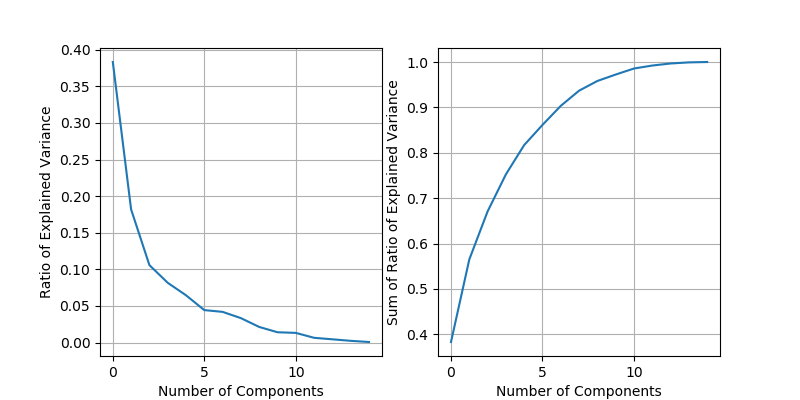
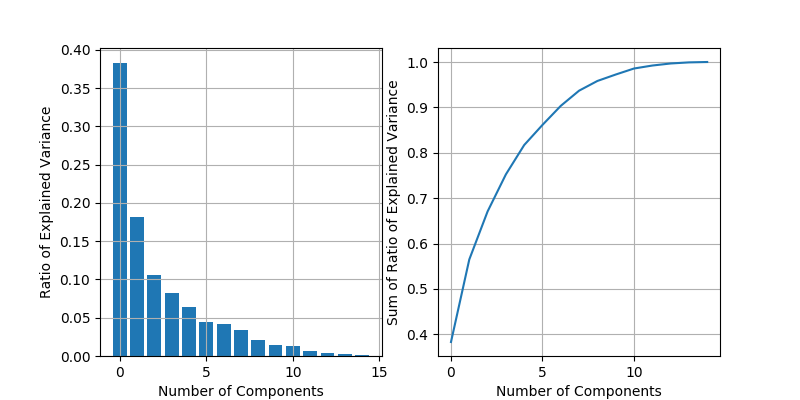
Time: 2019-09-19 22:23:42

diff --git a/proprecessing.py b/proprecessing.py
@@ -6,7 +6,7 @@
 @Github: https://github.com/isLouisHsu
 @E-mail: is.louishsu@foxmail.com
 @Date: 2019-09-19 11:01:14
-@LastEditTime: 2019-09-19 20:05:39
+@LastEditTime: 2019-09-19 21:25:07
 @Update: 
 '''
 import os
@@ -18,7 +18,7 @@ import pywt
 
 from dwt_signal_decomposition import plot_signal_decomp, dwtDecompose
 
-SPEEDTHRESH = 2.
+IDLETHRESH = 2.
 
 def timestamp2unix(timestamp):
     """
@@ -58,7 +58,7 @@ def getSpeedSequenceFromLongitudeAndLatitude(longitude, latitude):
     speedSeq  = np.r_[0, speedSeq]
     return speedSeq
 
-def cutSpeedSequences(timestamp, speedSeq, speedThresh=SPEEDTHRESH):
+def cutSpeedSequences(timestamp, speedSeq, speedThresh=IDLETHRESH):
     """
     Params:
         timestamp: {ndarray(N)}
@@ -89,17 +89,15 @@ def cutSpeedSequences(timestamp, speedSeq, speedThresh=SPEEDTHRESH):
     # speedSeq[speedSeq < speedThresh] = 0.                                           # 小于阈值作怠速处理
     speedSequences = list(map(lambda x: speedSeq[x[0]: x[1]], cutIndex))
 
-    return speedSequences, cutIndex
+    return speedSequences
 
-def calFeaturesOfSequence(seq, speedThresh=SPEEDTHRESH, maxIdle=180):
+def calFeaturesOfSequence(seq, speedThresh=IDLETHRESH, maxIdle=180, dwtTime=1):
     """
     Params:
         seq: {ndarray(n_length)}
     Notes:
     -   
     """
-    # plt.figure(); plt.plot(seq); plt.show()
-    
     isIdle = (seq < speedThresh).astype(np.int)     # 是否怠速
     index = np.r_[1, isIdle[1:] - isIdle[:-1]]      # 负跳变(-1)：从怠速起步
     idxStart = np.where(index == -1)[0][0]          # 起步时间
@@ -108,12 +106,12 @@ def calFeaturesOfSequence(seq, speedThresh=SPEEDTHRESH, maxIdle=180):
         seq = seq[maxIdle: ]             
         idxStart -= maxIdle
 
-    accelerate = np.r_[0, seq[1:] - seq[:-1]]       # 加速度(m/s)
-    accelerate = accelerate[idxStart:]
-
-    seq_   = seq / 3.6                              # m/s
+    seq    = seq / 3.6                              # m/s
     n_sec  = seq.shape[0]
     n_dist = seq.sum()
+
+    accelerate = np.r_[0, seq[1:] - seq[:-1]]       # 加速度(m/s)
+    accelerate = accelerate[idxStart:]
 
     feature = []
     feature += [n_sec]                              # 时长(s)
@@ -147,12 +145,19 @@ if __name__ == "__main__":
     # filename = 'data/temp.xlsx'
 
     for i in range(1, 4):
+        
         filename = 'data/file%d.xlsx' % i
         data = readData(filename)
         print(i, data.shape)
+        
         timestamp, gpsSpeed = data[:, 0], data[:, 1]
-        gpsSpeedSeq, cutIndex = cutSpeedSequences(timestamp, gpsSpeed)
-        np.save('output/gpsSpeedCutIndex_file%d.npy' % i, cutIndex)
+        # gpsSpeed = dwtDecompose(gpsSpeed, 2)
+
+        gpsSpeedSeq = cutSpeedSequences(timestamp, gpsSpeed)
+        np.save('output/gpsSpeedSequences_file%d.npy' % i, gpsSpeedSeq)
+        print("Number of sequences: %d, Mean of sequences' length: %f" 
+                % (len(gpsSpeedSeq), gpsSpeed.shape[0] / len(gpsSpeedSeq)))
+
         gpsSpeedFeat = np.stack(list(map(calFeaturesOfSequence, gpsSpeedSeq)), 0)
         np.save('output/gpsSpeedFeat_file%d.npy' % i, gpsSpeedFeat)
     

diff --git a/clustering.py b/clustering.py
@@ -6,7 +6,7 @@
 @Github: https://github.com/isLouisHsu
 @E-mail: is.louishsu@foxmail.com
 @Date: 2019-09-19 17:58:02
-@LastEditTime: 2019-09-19 20:02:09
+@LastEditTime: 2019-09-19 21:21:44
 @Update: 
 '''
 import os
@@ -18,6 +18,7 @@ from sklearn.preprocessing import StandardScaler
 from sklearn.decomposition import PCA
 from sklearn.cluster import KMeans
 from sklearn.model_selection import GridSearchCV
+from sklearn.externals import joblib
 
 speedFeats = []
 for i in range(1, 4):
@@ -25,6 +26,7 @@ for i in range(1, 4):
     speedFeats += [speedFeat]
 speedFeats = np.concatenate(speedFeats, axis=0)
 n_samples, n_features = speedFeats.shape
+print("Shape of samples: ", speedFeats.shape)
 
 # ------------------------------------------------------------------
 steps = [('scaler', StandardScaler()), ('pca', PCA(n_components=n_features))]
@@ -34,7 +36,7 @@ pipline.fit(speedFeats)
 plt.figure(figsize=(8, 4))
 plt.title('Explained Variance(Eigen Values) Ratio of PCA')
 plt.subplot(121)
-plt.plot(pipline.named_steps.pca.explained_variance_ratio_)
+plt.bar(list(range(n_features)), pipline.named_steps.pca.explained_variance_ratio_)
 plt.xlabel("Number of Components")
 plt.ylabel("Ratio of Explained Variance")
 plt.grid()
@@ -75,16 +77,31 @@ steps = [
 pipline = Pipeline(steps)
 
 scores = []
-for n_clusters in range(3, 15):
+n_clusters_list = list(range(3, 7))
+for n_clusters in n_clusters_list:
     pipline.set_params(kmeans__n_clusters=n_clusters)
     pipline.fit(speedFeats)
     scores += [pipline.score(speedFeats)]
 
 plt.figure()
 plt.title("K-means' Scores(n_components=%d)" % n_components)
-plt.plot(scores)
+plt.plot(n_clusters_list, scores)
 plt.xlabel("Number of Clusters")
 plt.ylabel("Score")
 plt.grid()
 plt.savefig("images/kmeans.png")
 plt.show()
+
+# ------------------------------------------------------------------
+n_clusters = int(input("Please enter the number of clusters: "))
+steps = [
+        ('scaler', StandardScaler()), 
+        ('pca', PCA(n_components=n_components)), 
+        ('kmeans', KMeans(n_clusters=n_clusters)),
+    ]
+pipline = Pipeline(steps)
+pipline.fit(speedFeats)
+y = pipline.predict(speedFeats)
+np.save("output/seqLabels_pca%d_kmeans%d.npy" % (n_components, n_clusters), y)
+
+joblib.dump(pipline, "output/model_pca%d_kmeans%d.pkl" % (n_components, n_clusters))

diff --git a/subclustering.py b/subclustering.py
@@ -1,0 +1,53 @@
+# -*- coding: utf-8 -*-
+'''
+@Description: 
+@Version: 1.0.0
+@Author: louishsu
+@Github: https://github.com/isLouisHsu
+@E-mail: is.louishsu@foxmail.com
+@Date: 2019-09-19 21:22:25
+@LastEditTime: 2019-09-19 22:23:35
+@Update: 
+'''
+import os
+import numpy as np
+from matplotlib import pyplot as plt
+from sklearn.externals import joblib
+from sklearn.neighbors import KernelDensity
+
+n_components, n_clusters = 6, 5
+pipeline = joblib.load("output/model_pca%d_kmeans%d.pkl" % (n_components, n_clusters))
+
+sequences = []
+features = []
+for i in range(1, 4):
+    sequences += [np.load('output/gpsSpeedSequences_file%d.npy' % i)]
+    features  += [np.load('output/gpsSpeedFeat_file%d.npy' % i)]
+sequences = np.concatenate(sequences, axis=0)
+features  = np.concatenate(features,  axis=0)
+# ------------------------------------------------------------
+
+y = pipeline.predict(features)
+
+n_classes, n_sequences = 5, 5
+fig = plt.figure(figsize=(n_classes*2, n_sequences*2))
+for i in range(n_classes):
+    subseq = sequences[y == i]
+    for j in range(n_sequences):
+        ax = fig.add_subplot(n_sequences, n_classes, n_classes*j + i + 1)
+        ax.plot(subseq[j * 2])
+        if i == 0:
+            ax.set_ylabel("km/h")
+        if j == 0:
+            ax.set_title("class %d" % (i))
+plt.savefig("output/sequences_kmeans.png")
+plt.show()
+
+# ------------------------------------------------------------
+maxSpeed = features[:, 5]
+plt.figure()
+plt.xlabel("Speed(km/h)")
+plt.ylabel("Number")
+plt.hist(maxSpeed, facecolor='lightblue', edgecolor='white')
+plt.savefig("output/speed_hist.png")
+plt.show()
